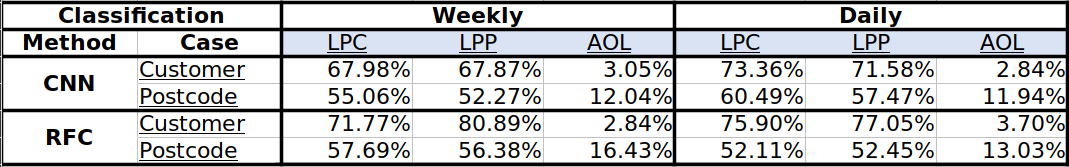
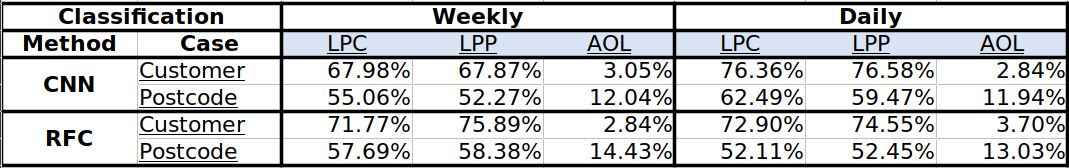
Obj 3 classification graphs produced

diff --git a/Code/graphs.py b/Code/graphs.py
@@ -5,7 +5,7 @@ import matplotlib.pyplot as plt
 import seaborn as sns
 
 
-def visual():
+def graphs_obj1():
     # Visualise some weekly data
     os.chdir("../BlockchainData/weekly")
     df37 = pd.read_csv(f"{37}_blockchain.csv", header=0)
@@ -124,7 +124,7 @@ def visual():
     plt.show()
 
 
-def results():
+def graphs_obj2():
     # Visualise results
     x_cats = ['Weekly', 'Daily', 'Hourly', 'Half Hourly']
 
@@ -205,7 +205,7 @@ def results():
         'RFC AOL': rfc_post_aol
     })
     grapher(["Random Forest Classifier - Customer",
-            "Random Forest Classifier - Postcode"],
+             "Random Forest Classifier - Postcode"],
             [plot_rfc_cust, plot_rfc_post])
 
     # KNN RESULTS
@@ -223,7 +223,7 @@ def results():
     })
     grapher(["K-Nearest Neighbours - Customer",
              "K-Nearest Neighbours - Postcode"],
-             [plot_knn_cust, plot_knn_post])
+            [plot_knn_cust, plot_knn_post])
 
     # Compare ledger per customer results
     plot_comp_cust = pd.DataFrame({
@@ -283,12 +283,76 @@ def results():
             [plot_comp_cust, plot_comp_post])
 
 
-def grapher(title, data):
+def graphs_obj3():
+    # Visualise results
+    x_cats = ['Weekly', 'Daily']
+
+    # Data copied from graphs_obj2 for delta to solar results
+    cnn_cust_lpc = [58.03, 69.91]
+    cnn_cust_lpp = [59.21, 71.05]
+    cnn_cust_aol = [2.47, 2.39]
+    cnn_post_lpc = [42.85, 53.96]
+    cnn_post_lpp = [45.65, 55.77]
+    cnn_post_aol = [11.46, 11.47]
+
+    rfc_cust_lpc = [62.63, 63.10]
+    rfc_cust_lpp = [64.81, 65.14]
+    rfc_cust_aol = [2.14, 2.63]
+    rfc_post_lpc = [39.23, 36.94]
+    rfc_post_lpp = [39.69, 36.52]
+    rfc_post_aol = [11.86, 11.67]
+
+    # Solar results
+    cnn_cust_lpc_s = [67.98, 76.36]
+    cnn_cust_lpp_s = [67.87, 76.58]
+    cnn_cust_aol_s = [3.05, 2.84]
+    cnn_post_lpc_s = [55.06, 62.49]
+    cnn_post_lpp_s = [52.27, 59.47]
+    cnn_post_aol_s = [12.04, 11.94]
+
+    rfc_cust_lpc_s = [71.77, 72.90]
+    rfc_cust_lpp_s = [75.89, 74.55]
+    rfc_cust_aol_s = [2.84, 3.70]
+    rfc_post_lpc_s = [57.69, 52.11]
+    rfc_post_lpp_s = [58.38, 52.45]
+    rfc_post_aol_s = [14.43, 13.03]
+
+    bright_cols = sns.color_palette("bright", 10)
+    dark_cols = sns.color_palette("colorblind", 10)
+    palette = [dark_cols[1], bright_cols[1], dark_cols[2], bright_cols[2]]
+
+    # Compare ledger per customer results
+    plot_comp_cust = pd.DataFrame({'cats': x_cats, 'CNN': cnn_cust_lpc, 'CNN solar': cnn_cust_lpc_s,
+                                   'RFC': rfc_cust_lpc, 'RFC solar': rfc_cust_lpc_s})
+    plot_comp_post = pd.DataFrame({'cats': x_cats, 'CNN': cnn_post_lpc, 'CNN solar': cnn_post_lpc_s,
+                                   'RFC': rfc_post_lpc, 'RFC solar': rfc_post_lpc_s})
+    grapher(["Compare LPC - Customer", "Compare LPC - Postcode"], [plot_comp_cust, plot_comp_post], palette)
+
+    # Compare ledger per postcode results
+    plot_comp_cust = pd.DataFrame({'cats': x_cats, 'CNN': cnn_cust_lpp, 'CNN solar': cnn_cust_lpp_s,
+                                   'RFC': rfc_cust_lpp, 'RFC solar': rfc_cust_lpp_s})
+    plot_comp_post = pd.DataFrame({'cats': x_cats, 'CNN': cnn_post_lpp, 'CNN solar': cnn_post_lpp_s,
+                                   'RFC': rfc_post_lpp, 'RFC solar': rfc_post_lpp_s})
+    grapher(["Compare LPP - Customer", "Compare LPP - Postcode"], [plot_comp_cust, plot_comp_post], palette)
+
+    # Compare AOL results
+    plot_comp_cust = pd.DataFrame({'cats': x_cats, 'CNN': cnn_cust_aol, 'CNN solar': cnn_cust_aol_s,
+                                   'RFC': rfc_cust_aol, 'RFC solar': rfc_cust_aol_s})
+    plot_comp_post = pd.DataFrame({'cats': x_cats, 'CNN': cnn_post_aol, 'CNN solar': cnn_post_aol_s,
+                                   'RFC': rfc_post_aol, 'RFC solar': rfc_post_aol_s})
+    grapher(["Compare AOL - Customer", "Compare AOL - Postcode"], [plot_comp_cust, plot_comp_post], palette)
+
+
+def graphs_obj4():
+    pass
+
+
+def grapher(title, data, palette='bright'):
     fig, axes = plt.subplots(nrows=1, ncols=len(data), sharey='row')
 
     for i, line in enumerate(data):
         ax = axes[i]
-        sns.barplot(x='cats', y='value', hue='variable', palette='bright', ax=ax, data=pd.melt(line, ['cats']))
+        sns.barplot(x='cats', y='value', hue='variable', palette=palette, ax=ax, data=pd.melt(line, ['cats']))
         ax.set_title(title[i])
         ax.set_xlabel("Transaction Frequency")
         ax.set_ylabel("Accuracy (%)")
@@ -300,15 +364,23 @@ def grapher(title, data):
 
 if __name__ == '__main__':
     # Check usage
-    if not len(sys.argv) == 3:
-        print("Use: python ./graphs.py [visual] [results]")
+    if not len(sys.argv) == 5:
+        print("Use: python ./graphs.py [obj1] [obj2] [obj3] [obj4]")
         print("Use a 1 or 0 indicator for each argument")
         exit()
 
     if int(sys.argv[1]):
-        print("Preparing hourly data")
-        visual()
+        print("Preparing objective one graphs")
+        graphs_obj1()
 
     if int(sys.argv[2]):
-        print("Creating result graphs")
-        results()
+        print("Preparing objective two graphs")
+        graphs_obj2()
+
+    if int(sys.argv[3]):
+        print("Preparing objective three graphs")
+        graphs_obj3()
+
+    if int(sys.argv[4]):
+        print("Preparing objective four graphs")
+        graphs_obj4()
